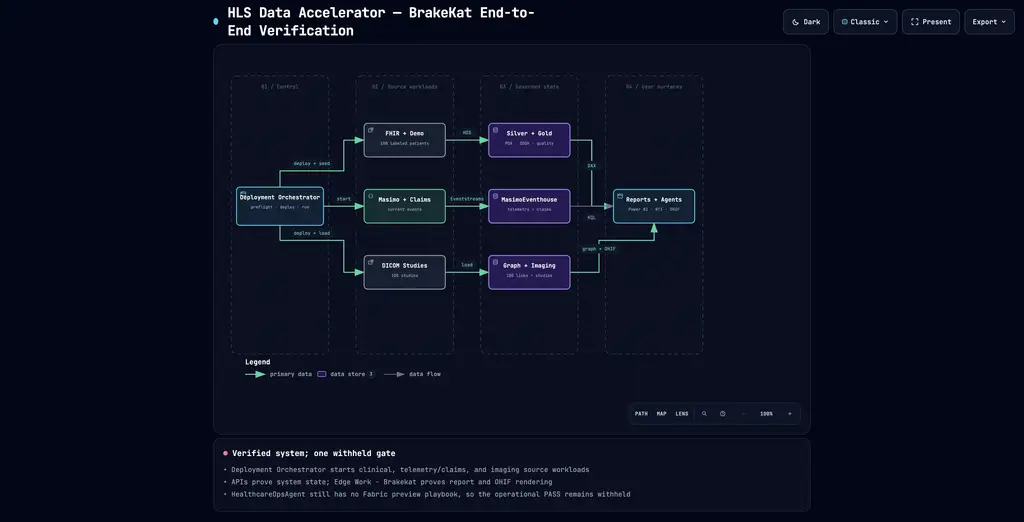
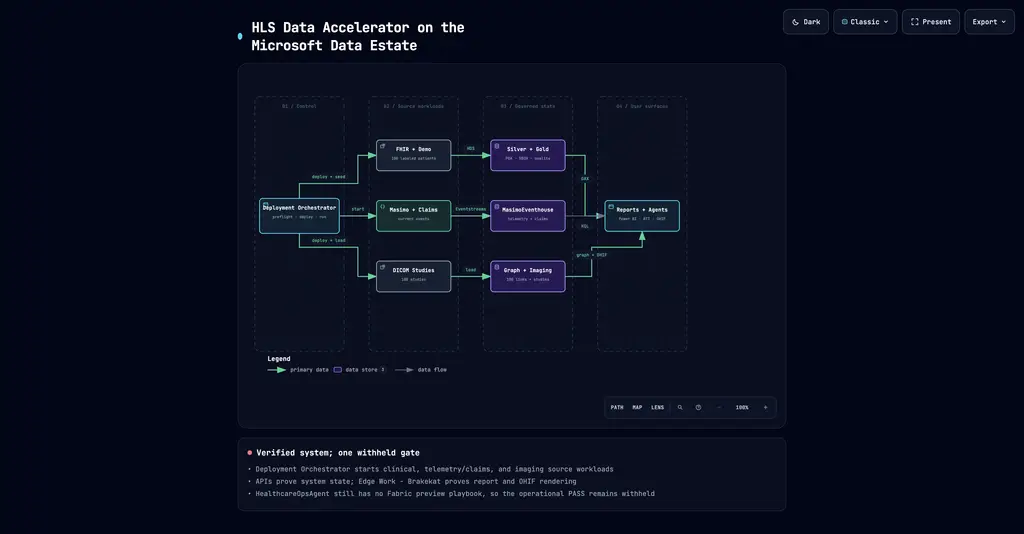
Regenerate HLS diagram title

diff --git a/docs/hls-end-to-end-verification.html b/docs/hls-end-to-end-verification.html
@@ -4,7 +4,7 @@
   <meta charset="UTF-8">
   <meta name="viewport" content="width=device-width, initial-scale=1.0">
   <meta name="generator" content="archify 2.17.0-dev.1">
-  <title>HLS Data Accelerator — BrakeKat End-to-End Verification Diagram</title>
+  <title>HLS Data Accelerator on the Microsoft Data Estate Diagram</title>
   <script>
     // Resolve the theme before first paint so light-preference users don't
     // see a dark flash. The toolbar script below re-applies with UI state.
@@ -5081,7 +5081,7 @@ OTHER DEALINGS IN THE FONT SOFTWARE.
            data-preset-badge-blueprint="BLUEPRINT / REV 01"
            data-preset-badge-editorial="EDITORIAL / FIELD NOTE">
         <div class="pulse-dot"></div>
-        <h1>HLS Data Accelerator — BrakeKat End-to-End Verification</h1>
+        <h1>HLS Data Accelerator on the Microsoft Data Estate</h1>
       </div>
     </div>
 
@@ -5131,7 +5131,7 @@ OTHER DEALINGS IN THE FONT SOFTWARE.
     <div class="diagram-container" data-detail-level="read"
          data-preset-badge-editorial-plate="ARCHIFY / PLATE 04">
       <svg viewBox="0 0 1000 600" role="img" lang="en" aria-labelledby="archify-diagram-title archify-diagram-description" data-preset="classic" data-quality-profile="showcase">
-        <title id="archify-diagram-title">HLS Data Accelerator — BrakeKat End-to-End Verification</title>
+        <title id="archify-diagram-title">HLS Data Accelerator on the Microsoft Data Estate</title>
         <desc id="archify-diagram-description">A data-flow diagram generated by Archify.</desc>
         <!-- Definitions -->
         <defs>
